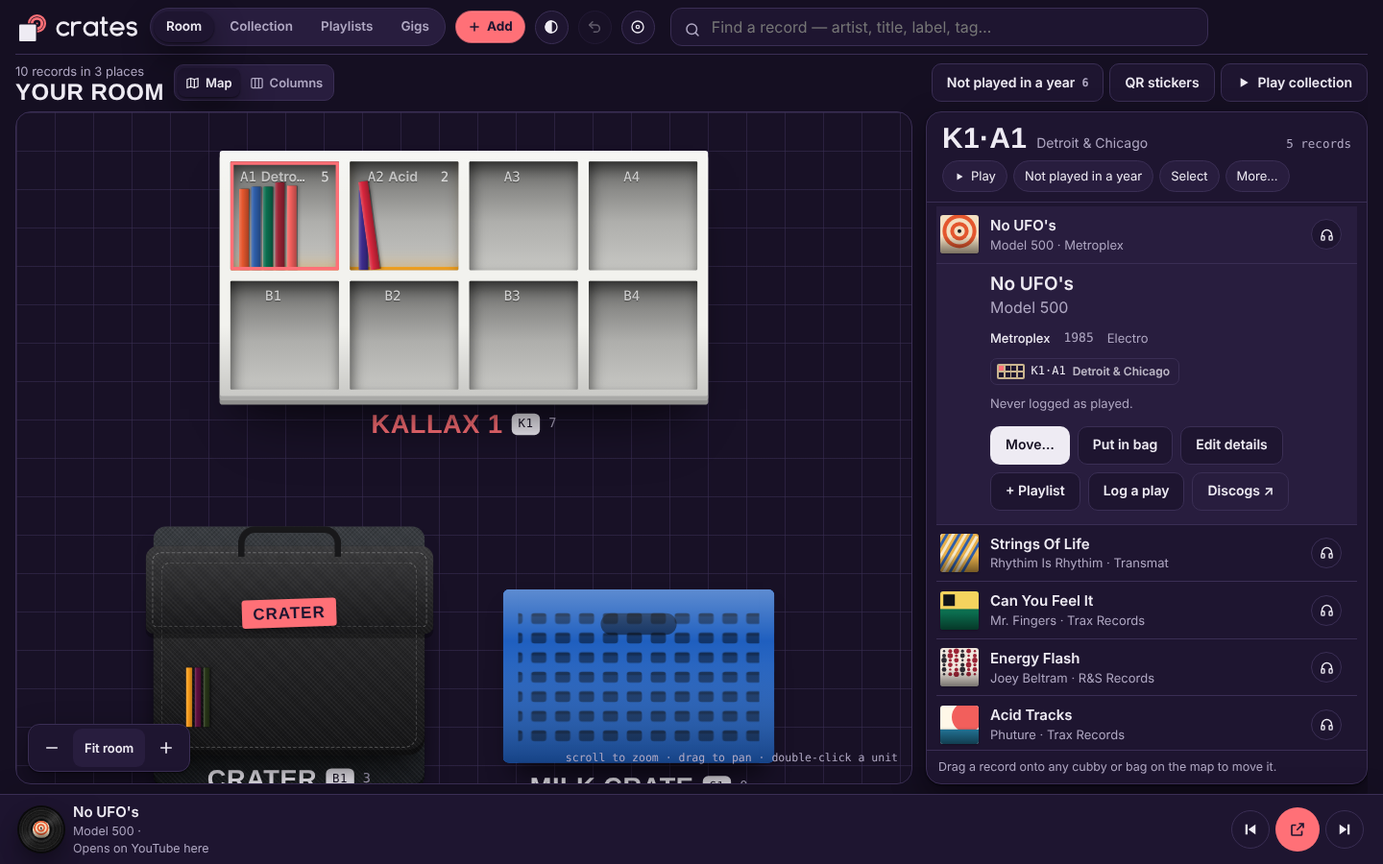
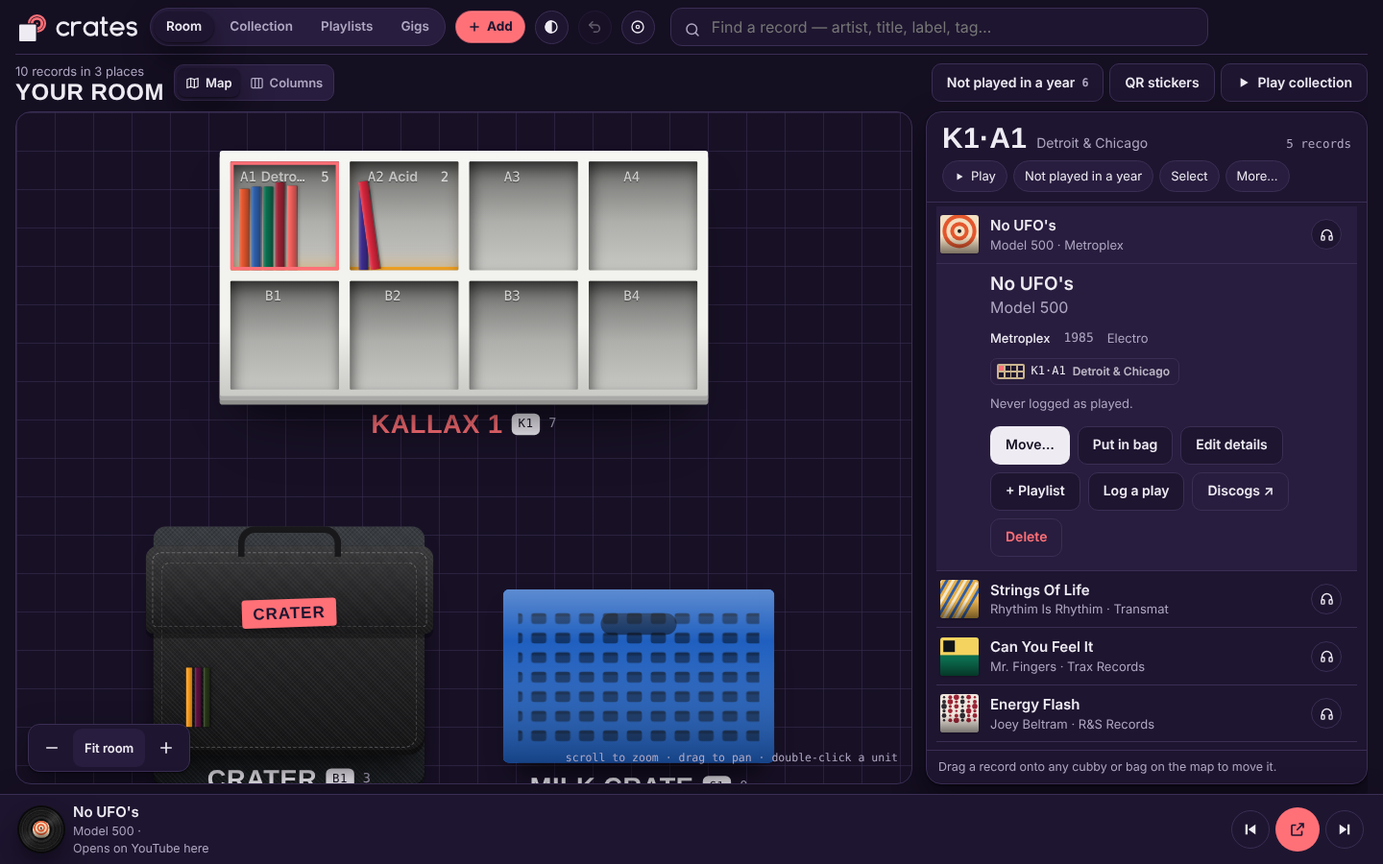
Slick borderless Collection table, Delete records with undo, two-step Discogs upload (pull and back up first), shorter README
Claude-Session: https://claude.ai/code/session_01GjUsXrTJbfwsyuQXsEMkpL

Changed region(s): [[0.6562, 0.5911, 0.8438, 0.8711], [0.9375, 0.7467, 0.9688, 0.84], [0.9375, 0.6844, 0.9688, 0.7156]]

diff --git a/crates.html b/crates.html
@@ -607,6 +607,25 @@ body:has(#player[hidden]){padding-bottom:24px}
 
 .foot{margin-top:34px;font-size:12.5px;color:var(--muted);max-width:72ch}
 
+/* ---------- slick table: no borders, soft stripes, pill hover ---------- */
+.tbl-shell .tbl-wrap{border:0;box-shadow:none;background:transparent;border-radius:12px}
+.ctable td{border-bottom:0;padding:3px 6px}
+.ctable tbody tr:nth-child(even) td{background:color-mix(in srgb,var(--surface) 55%,transparent)}
+.ctable tbody tr td{transition:background .12s}
+.ctable tbody tr:hover td{background:color-mix(in srgb,var(--surface-2) 90%,transparent)}
+.ctable tbody tr td:first-child{border-radius:10px 0 0 10px}.ctable tbody tr td:last-child{border-radius:0 10px 10px 0}
+.ctable th{background:transparent;border-bottom:0;font-size:11.5px;letter-spacing:.06em;text-transform:uppercase;color:var(--muted)}
+.ctable thead tr th{background:var(--bg)}
+.ctable th button{padding:8px 6px}
+.ctable .stick,.ctable .stick2{background:var(--bg)}
+.ctable th.stick,.ctable th.stick2{background:var(--bg)}
+.ctable td.stick,.ctable td.stick2{box-shadow:none}
+.ctable tbody tr:nth-child(even) td.stick,.ctable tbody tr:nth-child(even) td.stick2{background:color-mix(in srgb,var(--surface) 55%,var(--bg))}
+.ctable tbody tr:hover td.stick,.ctable tbody tr:hover td.stick2{background:color-mix(in srgb,var(--surface-2) 90%,var(--bg))}
+.ctable tr.sel td{background:color-mix(in srgb,var(--accent) 12%,var(--bg))!important}
+.ce{border-color:transparent}.ce:hover{border-color:transparent;background:color-mix(in srgb,var(--surface-2) 80%,transparent)}
+.tbl-shell .tbl-tools input[type=search]{border:0;background:var(--surface)}
+
 /* ---------- tighter chrome (0.8b): icons -7%, smaller Add with a border, smaller mini vinyl, shorter container bar ---------- */
 .top .icon-btn{width:35px;height:35px}
 .top .icon-btn svg{width:16px;height:16px}
@@ -1328,6 +1347,8 @@ function recInfo(cur){
         <button class="btn" data-act="add-to-pl" data-r="${cur.id}">+ Playlist</button>
         <button class="btn" data-act="log-play" data-r="${cur.id}">Log a play</button>
         <a class="btn ghost" href="${discogsUrl(cur)}" target="_blank" rel="noopener">Discogs ↗</a>
+        <button class="btn ghost danger" data-act="del-rec" data-r="${cur.id}">Delete</button>
+      </div><div id="del-rec-confirm"></div><div class="row" hidden>
       </div></div>`;
 }
 /* rows for a spot's records. opts.act = what a click does; opts.inline = expand the current record under its row */
@@ -2994,6 +3015,10 @@ const A = {
   'eu-finish':d=>{ const u = unit(d.u); u.finish = finishesFor(presetOf(u)).find(f=>f.name===d.n); render(); openEditUnit(d.u); },
   'eu-nophoto':d=>{ unit(d.u).photo=null; render(); openEditUnit(d.u); },
   'del-unit':d=>{ $('#del-confirm').innerHTML = `<div class="notice">Remove ${esc(unit(d.u).name)} from your room? <div class="row" style="margin-top:8px"><button class="btn danger" data-act="del-unit-yes" data-u="${d.u}">Remove</button><button class="btn" data-act="close">Keep it</button></div></div>`; },
+  'del-rec':d=>{ const r = rec(d.r); if(!r) return; const box = $('#del-rec-confirm'); if(!box) { deleteRecords([r.id]); return; }
+    box.innerHTML = `<div class="notice">Delete “${esc(r.title)}” from your collection? You can undo this. <div class="row" style="margin-top:8px"><button class="btn danger" data-act="del-rec-yes" data-r="${r.id}">Delete record</button><button class="btn" data-act="del-rec-no">Keep it</button></div></div>`; },
+  'del-rec-yes':d=>deleteRecords([d.r]),
+  'del-rec-no':()=>{ const b = $('#del-rec-confirm'); if(b) b.innerHTML=''; },
   'del-unit-yes':d=>{ S.units = S.units.filter(u=>u.id!==d.u); S.records.forEach(r=>{ if(r.home?.u===d.u) r.home=null; }); S.recent = S.recent.filter(l=>l.u!==d.u); closeSheet(); V.view='room'; V.unit=null; render(); toast('Removed'); },
   'ar-loc':d=>{ addRec.loc={u:d.u,c:d.c}; renderAddRecord(); },
   'file-found':()=>{ const list = addRec.found.filter(f=>f.keep); if(!list.length){ toast('Tick at least one record'); return; } fileRecords(list); },
@@ -3182,7 +3207,7 @@ function renderTable(){
       <label for="t-q" class="sr">Filter the collection</label><input id="t-q" type="search" value="${esc(T.q)}" placeholder="Filter by anything: artist, tag, K1·A2, Crater…">
       ${T_FILTERS.map(([k,n])=>`<button class="chip" data-act="t-filt" data-f="${k}" aria-pressed="${T.filt===k}">${n}</button>`).join('')}
     </div>
-    ${nsel?`<div class="selbar" style="position:static;margin:0 0 10px"><span>${nsel} selected</span><button class="btn sm" data-act="t-sel-none">Clear</button><button class="btn sm primary" data-act="t-sel-back">Put back home</button>${bags.length?`<label class="sr" for="t-sel-bag">Put selected in a bag</label><select id="t-sel-bag" class="btn sm" style="background:var(--surface);color:var(--ink)"><option value="">Put in bag…</option>${bags.map(b=>`<option value="${b.id}">${esc(b.name)}</option>`).join('')}</select>`:''}<button class="btn sm" data-act="t-sel-pl">Add to playlist…</button></div>`:''}
+    ${nsel?`<div class="selbar" style="position:static;margin:0 0 10px"><span>${nsel} selected</span><button class="btn sm" data-act="t-sel-none">Clear</button><button class="btn sm primary" data-act="t-sel-back">Put back home</button><button class="btn sm danger" data-act="t-sel-del">Delete</button>${bags.length?`<label class="sr" for="t-sel-bag">Put selected in a bag</label><select id="t-sel-bag" class="btn sm" style="background:var(--surface);color:var(--ink)"><option value="">Put in bag…</option>${bags.map(b=>`<option value="${b.id}">${esc(b.name)}</option>`).join('')}</select>`:''}<button class="btn sm" data-act="t-sel-pl">Add to playlist…</button></div>`:''}
     <div class="tbl-wrap"><table class="ctable" aria-label="Collection">
       <thead><tr><th class="cb stick"><input type="checkbox" data-tsel="all" ${rows.length&&rows.every(r=>T.sel.has(r.id))?'checked':''} aria-label="Select all shown"></th><th class="stick2"></th>
         ${head('artist','Artist')}${head('title','Title')}${head('bag','Bag')}${head('home','Home spot')}${head('label','Label')}${head('catno','Cat no.')}${head('year','Year')}${head('style','Style')}${head('bpm','BPM')}${head('key','Key')}${head('rating','Rating')}${head('tags','Tags')}<th><span style="display:block;padding:10px 8px">Now</span></th>${head('played','Last played')}</tr></thead>
@@ -3240,6 +3265,7 @@ Object.assign(A, {
   't-back':d=>{ const n = putBack([rec(d.r)]); render(); if(n) toast(`Back in ${addrShort(rec(d.r).home)}`, true); },
   't-back-all':()=>{ const n = putBack(S.records.filter(inBagNow)); render(); toast(`${n} records put back home`, true); },
   't-sel-none':()=>{ T.sel.clear(); render(); },
+  't-sel-del':()=>{ const ids = [...T.sel]; if(!ids.length) return; deleteRecords(ids); },
   't-sel-back':()=>{ const n = putBack([...T.sel].map(rec).filter(Boolean)); T.sel.clear(); render(); toast(n?`${n} put back home`:'Those are already home', !!n); },
   't-sel-pl':()=>{ const ids = [...T.sel];
     openSheet(`<div class="sheet-head"><div><div class="kicker">${ids.length} records</div><h2>Add to playlist</h2></div><button class="icon-btn" data-act="close" aria-label="Close">✕</button></div>
@@ -3332,7 +3358,7 @@ function openDiscogsImport(){
     <p class="muted" style="margin:0 0 10px;font-size:13.5px">A backup of your current collection is made first. Imported records land as <b>Unplaced</b>; file them from the Collection tab or by dragging. Records you already own (same artist and title) are skipped.</p>
     <div class="row" style="margin-bottom:14px"><label class="btn primary file">Load Discogs CSV export<input type="file" id="dg-csv" accept=".csv,text/csv"></label><button class="btn" data-act="dg-demo">Import a demo collection (6 records)</button></div>
     <div class="bcbox"><b style="font-size:14px">Upload to your Discogs collection</b><p class="muted" style="margin:6px 0 10px;font-size:13px">Adds records that aren’t in your Discogs collection yet, and writes each one’s spot to the “Location” field. Queued here; the full app sends them from the server within the 60 requests/minute limit.</p>
-      <div class="row"><button class="btn" data-act="dg-upload">Queue upload (${S.records.length} records)</button><span class="muted" style="font-size:13px">${S.syncQueue.filter(q=>q.kind==='add').length} adds waiting</span></div></div>
+      <div class="row"><button class="btn" data-act="dg-upload-open">Upload to Discogs…</button><span class="muted" style="font-size:13px">${S.syncQueue.filter(q=>q.kind==='add').length} adds waiting</span></div></div>
     <p class="muted" style="font-size:12.5px;margin-top:12px">Importing straight from the Discogs API needs a server-side token (research/discogs-api.md), so the prototype reads the CSV export instead.</p>`);
   $('#dg-csv').onchange = e => { const f = e.target.files[0]; if(!f) return; const rd = new FileReader(); rd.onload = () => importDiscogsRows(parseCSV(rd.result), f.name); rd.readAsText(f); };
 }
@@ -3351,7 +3377,38 @@ function importDemoDiscogs(){
   const h = ['Artist','Title','Label','Released','Genre'];
   importDiscogsRows([h, ...DEMO_DISCOGS], 'the demo Discogs collection');
 }
+/* delete records; Undo puts them back where they were (in the same order), and in every playlist and gig they were in */
+function deleteRecords(ids){
+  const set = new Set(ids); const gone = [];
+  S.records.forEach((r,i)=>{ if(set.has(r.id)) gone.push({r, i}); });
+  if(!gone.length) return;
+  const pl = S.playlists.map(p=>[p, [...p.items]]), gg = S.gigs.map(g=>[g, [...g.items]]), q = P.queue.slice(), qi = P.i;
+  S.records = S.records.filter(r=>!set.has(r.id));
+  S.playlists.forEach(p=>{ p.items = p.items.filter(id=>!set.has(id)); }); S.gigs.forEach(g=>{ g.items = g.items.filter(it=>!set.has(it.r)); });
+  S.syncQueue = S.syncQueue.filter(x=>!set.has(x.r)); T.sel.clear(); P.queue = P.queue.filter(id=>!set.has(id)); if(P.i>=P.queue.length) P.i = P.queue.length-1;
+  lastUndo = () => { gone.sort((a,b)=>a.i-b.i).forEach(({r,i})=>S.records.splice(Math.min(i, S.records.length), 0, r)); pl.forEach(([p,items])=>{ p.items = items; }); gg.forEach(([g,items])=>{ g.items = items; }); P.queue = q; P.i = qi; renderPlayer(); };
+  closeSheet(); V.dig = Math.max(0, V.dig-1); render(); renderPlayer();
+  toast(gone.length===1 ? `Deleted “${gone[0].r.title}”` : `Deleted ${gone.length} records`, true);
+}
+/* Upload to Discogs: first pull the current Discogs collection and keep it as a backup, then queue the adds */
+function openDiscogsUpload(){
+  const snap = backups().find(b=>b.kind==='discogs');
+  openSheet(`<div class="sheet-head"><div><div class="kicker">Two steps, and nothing leaves until step 2</div><h2>Upload to Discogs</h2></div><button class="icon-btn" data-act="close" aria-label="Close">✕</button></div>
+    <div class="bcbox"><b style="font-size:14px">1 · Download your Discogs collection and back it up</b>
+      <p class="muted" style="margin:6px 0 10px;font-size:13px">So the upload can never lose anything, Crates keeps a copy of what Discogs has <em>before</em> it writes. Load your current CSV export (Collection → Export on discogs.com); it is stored as a backup labelled “Discogs collection before upload”. The full app does this pull itself through the API.</p>
+      <div class="row"><label class="btn primary file">Load Discogs CSV export<input type="file" id="dg-pre"></label><button class="btn" data-act="dg-pre-demo">Use the demo snapshot</button>${snap?`<span class="pill ok">Snapshot kept ${fmtWhen(snap.at)}</span>`:''}</div></div>
+    <div class="bcbox" style="margin-top:12px;${snap?'':'opacity:.55'}"><b style="font-size:14px">2 · Queue the upload</b>
+      <p class="muted" style="margin:6px 0 10px;font-size:13px">Adds the records Discogs doesn’t have yet and writes every spot to the “Location” field. The full app sends them from the server within the 60-requests-a-minute limit; here they wait in the queue (Settings → Sync now).</p>
+      <div class="row"><button class="btn ${snap?'primary':''}" data-act="dg-upload" ${snap?'':'disabled'}>Queue upload (${S.records.length} records)</button><span class="muted" style="font-size:13px">${S.syncQueue.filter(q=>q.kind==='add').length} adds waiting</span></div></div>`);
+  const inp = $('#dg-pre'); if(inp){ inp.accept='.csv,text/csv'; inp.onchange = e => { const f = e.target.files[0]; if(!f) return; const rd = new FileReader(); rd.onload = () => { const rows = parseCSV(rd.result); if(rows.length<2){ toast('No records found in that file'); return; } snapshotDiscogs(rows, f.name); }; rd.readAsText(f); }; }
+}
+function snapshotDiscogs(rows, label){
+  const b = backupNow('Discogs collection before upload · '+label, 'discogs');
+  if(b){ b.discogsRows = rows.length-1; const list = backups(); list[0].discogsRows = rows.length-1; localStorage.setItem(BK_KEY, JSON.stringify(list)); }
+  toast(`Kept a copy of ${rows.length-1} Discogs rows as a backup`); openDiscogsUpload();
+}
 function queueDiscogsUpload(){
+  if(!backups().some(b=>b.kind==='discogs')){ toast('Download and back up your Discogs collection first'); openDiscogsUpload(); return; }
   let n=0; S.records.forEach(r=>{ if(!S.syncQueue.some(q=>q.kind==='add'&&q.r===r.id)){ S.syncQueue.push({kind:'add', r:r.id, value:discogsLocValue(r), status:'pending', at:Date.now()}); n++; } });
   save(); closeSheet(); toast(`${n} records queued for Discogs · Settings → Sync now (demo)`);
 }
@@ -3365,6 +3422,8 @@ Object.assign(A, {
   'dg-import':()=>openDiscogsImport(),
   'dg-demo':()=>importDemoDiscogs(),
   'dg-upload':()=>queueDiscogsUpload(),
+  'dg-upload-open':()=>openDiscogsUpload(),
+  'dg-pre-demo':()=>snapshotDiscogs([['Artist','Title'], ...DEMO_DISCOGS], 'demo snapshot'),
 });
 
 /* ---------- Claude photo recognition (optional) ---------- */

diff --git a/tests/test_crates.py b/tests/test_crates.py
@@ -1339,6 +1339,22 @@ def r10_density_and_sheet(browser, url):
         a.close()
 
 
+def r11_delete_and_upload(a):
+    a.click(".dig-info [data-act=del-rec]"); a.click("[data-act=del-rec-yes]"); _settle(a, 150)
+    check(a.ev("S.records.length") == 9 and a.toast().startswith("Deleted"), "delete did not remove the record")
+    a.undo(); check(a.ev("S.records.length") == 10 and a.ev("S.records[0].id") == "r9", "undo did not restore the record in place")
+    a.ev("V.view='table';render()"); a.page.locator("input[data-tsel=r1]").click(); a.page.locator("input[data-tsel=r2]").click(); _settle(a)
+    a.click("[data-act=t-sel-del]"); _settle(a, 150); check(a.ev("S.records.length") == 8, "bulk delete")
+    a.undo(); check(a.ev("S.records.length") == 10, "bulk undo")
+    a.ev("openDiscogsUpload()"); _settle(a, 150)
+    check(a.page.locator(".sheet [data-act=dg-upload]").is_disabled(), "upload must wait for the Discogs snapshot")
+    a.click(".sheet [data-act=dg-pre-demo]"); _settle(a, 200)
+    check(a.ev("backups()[0].kind") == "discogs" and not a.page.locator(".sheet [data-act=dg-upload]").is_disabled(), "snapshot should enable the upload")
+    a.click(".sheet [data-act=dg-upload]"); _settle(a, 150)
+    check(a.ev("S.syncQueue.filter(q=>q.kind==='add').length") == 10, "adds not queued")
+    check(not a.js_errors(), a.js_errors())
+
+
 TESTS += [
     ("R01 Room fits the screen", r01_room_fits), ("R02 Zoom into a unit", r02_zoom),
     ("R03 Drag and drop", r03_drag), ("R04 Multi-step undo", r04_multi_undo),
@@ -1347,6 +1363,7 @@ TESTS += [
     ("R08 Looks + cue bar", r08_looks_and_cuebar),
     ("R09 Backups + Discogs import", r09_backups_import),
     ("R10 Density, sheet snaps, phone columns", r10_density_and_sheet),
+    ("R11 Delete + two-step Discogs upload", r11_delete_and_upload),
 ]
 BROWSER_LEVEL |= {r01_room_fits, r03_drag, r06_player_slides_in, r10_density_and_sheet}
 

diff --git a/README.md b/README.md
@@ -1,123 +1,65 @@
 <p align="center">
   <picture>
     <source media="(prefers-color-scheme: dark)" srcset="logos/crates-logo-dark.svg">
-    <img src="logos/crates-logo-light.svg" alt="crates" width="420">
+    <img src="logos/crates-logo-light.svg" alt="crates" width="380">
   </picture>
 </p>
 
-<p align="center"><b>Vinyl DJ Librarian.</b> Version 0.8b. Know which shelf, crate or bag every record is in, play it, and pack it for the gig.</p>
+<p align="center"><b>Where's that record?</b><br>Crates knows. Kallax 1, shelf A2. Or the bag you took to the loft last Friday.</p>
 
-<p align="center"><a href="https://crates-livid.vercel.app/"><b>Open the live app → crates-livid.vercel.app</b></a></p>
+<p align="center"><a href="https://crates-livid.vercel.app/"><b>▶ Play with it: crates-livid.vercel.app</b></a> · v0.8b</p>
 
 ---
 
-Crates maps your record collection to the furniture it actually lives in. Photograph your racks and record bags, then the records in each cubby, and every record gets a spot. Search **Strings Of Life** and the answer is **Kallax 1, shelf A1 (Detroit & Chicago)** or **bag "Crater"**. You can flip through a cubby, move a record with two taps or a drag, pack a bag for a gig and check it all back in when you get home. Records play through the YouTube player and fallback chain from [discogs-stream](https://github.com/CarlosFranzetti/discogs-stream).
+Crates is a vinyl librarian for DJs. Draw your shelves, crates and bags, drop your records in, and it remembers every spot. Search a record and it answers with a place, not a folder. Pack a bag for a gig, log what you played, put it all back when you get home. Press play and it spins through YouTube, with the fallback chain from [discogs-stream](https://github.com/CarlosFranzetti/discogs-stream) so a dead link never kills the set.
 
-> **Status:** working prototype (`crates.html`, a single file) deployed on Vercel, plus a live Neon Postgres schema. The React app comes next; see [ROADMAP](docs/ROADMAP.md).
+![The room as a map, with K1·A1 open in the side panel](docs/screenshots/readme-map-desktop.png)
 
-## Screenshots
+## The good stuff
 
-The app opens in the dark **Booth** look; the ◐ button switches to the light **Shop floor** look or follows your device. Room has two layouts, **Map** and **Columns**, switched next to the title.
+- **Two ways to look at your room.** **Map** draws your furniture on a canvas you pan and pinch. **Columns** goes spots → records → record, Finder-style. Switch any time; it remembers.
+- **Tap a cubby, get the records.** Side panel on desktop, a slide-up overlay on your phone. Nothing on the page ever scrolls.
+- **Addresses that make sense.** `K1·B2` is Kallax 1, row B, cubby 2. Name a cubby "Acid" and it shows up everywhere.
+- **Move things like a human.** Drag a sleeve onto any cubby or bag. Two taps for one record. Multi-select, move a whole cubby, swap two. Undo as far back as you like.
+- **64 racks, 41 bags.** Every Kallax, plus Glorious, Zomo, UDG, Magma, milk crates in all the colors. Pick a finish, or your own.
+- **Gigs.** Plan, pack, play, put back. Anything missing gets flagged. "Not played in a year" is one tap away.
+- **The player.** Spinning vinyl, big-type queue, drag to seek, pinch the record to read the label. The next link is cued before you need it, and links that work are saved.
+- **Collection spreadsheet.** Edit in place, every container along the top, drag a row onto one to move it. Borderless, because it should look good.
+- **Backups you don't have to think about.** Four rolling snapshots, made before every import, restore and reset. Save the whole thing to a file. Import your Discogs CSV. Upload to Discogs only after it has pulled and backed up what's there.
+- **QR stickers** for every unit and cubby. Scan one, land on that cubby.
+- **Dark by default.** Booth look, or Shop floor if you're a morning person.
 
-| Map: the room on a pannable, zoomable canvas, a spot's records beside it | Columns: spots → records → record |
-|---|---|
-| ![Map view with Kallax 1, the Crater bag and a milk crate, K1·A1 open in the side panel](docs/screenshots/readme-map-desktop.png) | ![Columns view with the spots list, A1's records and the chosen record](docs/screenshots/readme-columns-desktop.png) |
-| **Collection: full height, with every container along the top** | **Shop floor look (light)** |
-| ![Collection table with the container bar and Bag and Home spot columns](docs/screenshots/readme-collection-desktop.png) | ![Map view in the light Shop floor look](docs/screenshots/readme-shop-map-desktop.png) |
-| **Player: pinch the record to grow the label, drag to seek** | **Gig packing list** |
-| ![Now playing with the spinning record and queue](docs/screenshots/readme-player-desktop.png) | ![Gig load-out checklist](docs/screenshots/readme-gigs-desktop.png) |
-| **Add a record: barcode and duplicate warning** | **QR stickers** |
-| ![Add record with barcode candidates and a duplicate warning](docs/screenshots/readme-add-record-dupe-desktop.png) | ![QR sticker sheet per unit and cubby](docs/screenshots/readme-stickers-desktop.png) |
+| Columns | Collection | Phone |
+|---|---|---|
+| ![Columns view](docs/screenshots/readme-columns-desktop.png) | ![Collection table](docs/screenshots/readme-collection-desktop.png) | ![Phone overlay](docs/screenshots/readme-overlay-mobile.png) |
 
-<details><summary>Phone screenshots</summary>
+<details><summary>More screenshots</summary>
 
-| Map | Tap a cubby: its records as an overlay | Columns | Collection | Player | Add record |
-|---|---|---|---|---|---|
-| ![](docs/screenshots/readme-map-mobile.png) | ![](docs/screenshots/readme-overlay-mobile.png) | ![](docs/screenshots/readme-columns-mobile.png) | ![](docs/screenshots/readme-collection-mobile.png) | ![](docs/screenshots/readme-player-mobile.png) | ![](docs/screenshots/readme-add-record-dupe-mobile.png) |
+| Shop floor look | Player | Gig packing | Add + duplicate check | QR stickers |
+|---|---|---|---|---|
+| ![](docs/screenshots/readme-shop-map-desktop.png) | ![](docs/screenshots/readme-player-desktop.png) | ![](docs/screenshots/readme-gigs-desktop.png) | ![](docs/screenshots/readme-add-record-dupe-desktop.png) | ![](docs/screenshots/readme-stickers-desktop.png) |
+
+| Map | Columns | Collection | Player | Add record |
+|---|---|---|---|---|
+| ![](docs/screenshots/readme-map-mobile.png) | ![](docs/screenshots/readme-columns-mobile.png) | ![](docs/screenshots/readme-collection-mobile.png) | ![](docs/screenshots/readme-player-mobile.png) | ![](docs/screenshots/readme-add-record-dupe-mobile.png) |
 
 </details>
 
-## What it does
-
-**Where things are**
-- **Spots, not folders.** Each unit has an ID (K1, B1, C1). Cubbies are rows A, B, C… by columns 1, 2, 3…, so `K1·B2` is Kallax 1, second row, second cubby. Any cubby can have a subtitle such as "A2 (Acid)".
-- **Map.** Your furniture on a canvas: drag to pan, pinch or scroll to zoom, double-tap a unit. Tap a cubby, bag or crate for its records in a side panel, or an overlay on phones. Nothing on the page scrolls.
-- **Columns.** Spots, records and the record, side by side on desktop and one at a time on phones with push/pop and ‹ › stepping between spots.
-- **Container bar.** Above the Collection table every spot is a pad: tap to filter, drop a row to move. Pads size to their text.
-- **Search to shelf.** Search by artist, title, label, cat no., BPM, key, tags, notes or cubby name, then jump straight to the spot.
-- **64 furniture presets and 41 record bags.** Every Kallax/Expedit size, other IKEA, Glorious, Zomo, Pro-Ject, Wax Stacks, crates and boxes, plus UDG, Magma, Zomo, Odyssey, Reloop, Gator and more. Each comes in its real finishes or colors, or a custom color. New bags start as "Bag 1", "Bag 2".
-
-**Moving records**
-- **Drag and drop** between cubbies and bags (long-press on touch screens).
-- **Two-tap moves** for one record, with its home slot outlined.
-- **Bulk moves:** a multi-select, a whole cubby, or a swap between two cubbies.
-- **Multi-step undo** for every move (Ctrl/⌘+Z).
-- **Bags remember where records came from.** Scan the whole bag to reconcile it, and Put back sends everything home.
-
-**Playing and gigs**
-- **Player.** Spinning vinyl, a large-font queue, YouTube links and discogs-stream's timeout/fallback chain. It slides up when something plays and slides out from its tab. Drag the bar to seek, pinch the record to grow the label. The next record's link is cued in a standby player, and links that play are saved back to the record.
-- **30-second previews.** Audio only, no video, like discogs-stream.
-- **Gigs.** Plan, load out, log what you played at the gig, and check in back home (anything missing gets flagged).
-- **Set history.** Last played, play counts, and a "Not played in a year" dig list.
-
-**Your data**
-- **Backups, save and load.** Four rolling backups, made before every import, restore and reset, with a picker. Save the collection to a file and load it back.
-- **Discogs import and upload.** Load your Discogs CSV export (duplicates skipped, new records land as Unplaced) and queue uploads to your Discogs collection.
-- **Density.** Regular or compact rows, bars and buttons.
-- **Collection spreadsheet.** Edit details in place, use the Bag and Home spot columns for the post-gig put-back, and export to CSV. Laid out for landscape.
-- **Adding records.** By photo, typing or barcode, with a duplicate warning ("You already own this. It's in K1·A1").
-- **Discogs.** Your edits never overwrite the original, and locations can be saved to a Discogs "Location" field.
-- **QR stickers.** One per unit and per cubby, in 1″, 1.5″ or 2″, ready to print. Scanning one opens that exact cubby on the live site.
-
-Barcode lookups and Discogs sync are simulated in the prototype and say so in the app. The real calls go server-side in the React app.
-
-## Docs
-
-| | |
-|---|---|
-| [PRD.md](PRD.md) | Product requirements, flows and acceptance criteria |
-| [HOWTO.md](HOWTO.md) | Using Crates step by step, and developing it |
-| [LIST.md](LIST.md) | The big list: every feature, preset, field and table, built or not |
-| [FUTURE.md](FUTURE.md) | Ideas beyond what's built |
-| [BUGS.md](BUGS.md) | Known bugs and what's been fixed |
-| [QA.md](QA.md) | Test catalog, error-handling audit, code review, swarm work packages |
-| [CLAUDE.md](CLAUDE.md) | Rules for Claude and agent swarms working in this repo |
-| [docs/](docs/) | Architecture, data model, player port spec, interaction spec, review-swarm report, roadmap, infrastructure |
-| [research/](research/) | Furniture, bag, feature, competitor and Discogs API research |
-| [logos/](logos/) | The logo (concept 3, "Half-pulled") and the other directions |
-
-## Quick start
+## Run it
 
 ```bash
-node scripts/build.mjs        # wraps crates.html into dist/index.html
-npx serve dist                # open http://localhost:3000
-
-pip install --break-system-packages playwright
-CRATES_NO_PATCH=1 python3 tests/test_crates.py   # 65 Playwright tests
+node scripts/build.mjs && npx serve dist          # http://localhost:3000
+CRATES_NO_PATCH=1 python3 tests/test_crates.py    # 66 Playwright tests
 ```
 
-The prototype keeps its data in your browser (localStorage), so each browser has its own collection. The database schema lives in `app/db/` (Neon Postgres; run 001–005 in order; 005 mirrors discogs-stream's tables and adds backups).
+One HTML file, no framework, no build beyond wrapping. Your data lives in your browser until the real backend lands (Neon schema in `app/db/`, 001–005). Deploys to Vercel from `main` with `vercel.json` (preset Other, `node scripts/build.mjs`, output `dist`).
 
-## Deploy
+## Read more
 
-Live at **https://crates-livid.vercel.app/**. Vercel builds it from `vercel.json`:
-
-- **Framework preset:** Other.
-- **Build command:** `node scripts/build.mjs`.
-- **Output directory:** `dist`.
-- **Install command:** none.
-
-The build adds the page title, favicon, Vercel Web Analytics and Speed Insights. `vercel.json` also sets the security headers (CSP, and camera allowed for barcode photos).
-
-## Stack
-
-- **Prototype:** HTML, CSS and vanilla JS in one file, with QR generation inlined and the barcode reader (ZXing) loaded on demand. Static site on Vercel.
-- **Planned app:** Vite + React + TypeScript + Tailwind, Vercel functions, Neon Postgres and the Discogs API, with the YouTube player ported from discogs-stream.
+[HOWTO](HOWTO.md) · [PRD](PRD.md) · [the big LIST](LIST.md) · [FUTURE](FUTURE.md) · [BUGS](BUGS.md) · [QA](QA.md) · [docs/](docs/) · [research/](research/) · [CLAUDE.md](CLAUDE.md) for the agents
 
 ## Credits
 
-Version 0.8b. **Thought up by Carlos Franzetti.** **Put into motion by Claude and the Crates crew** — the research, build and review agents that work in this repo.
+Thought up by **Carlos Franzetti**. Put into motion by **Claude and the Crates crew**.
 
----
-
-<sub>Data from Discogs is used under the Discogs API terms. Crates is not affiliated with Discogs or IKEA.</sub>
+<sub>Discogs data is used under the Discogs API terms. Not affiliated with Discogs or IKEA. The crew is not responsible for records you suddenly want to buy.</sub>

diff --git a/HOWTO.md b/HOWTO.md
@@ -216,7 +216,8 @@ Printing tips:
 - **Backups** (Settings → Backups) keeps the four most recent snapshots in this browser. One is made automatically before every import, restore and reset; **Back up now** adds one by hand. The oldest is dropped when all four slots are used. **Restore** swaps a backup in (after backing up the current collection first), ✕ deletes one.
 - **Save to file** downloads `crates-YYYY-MM-DD.json`, the whole collection. **Load from file** reads one back (with a backup first). Keep a saved file somewhere safe; backups live only in this browser.
 - **Import from Discogs:** on discogs.com go to your Collection → Export and download the CSV, then load it here. Records you already own (same artist and title) are skipped, and new ones land as **Unplaced**, which you file from the Collection tab (Home spot column) or by dragging. A demo import of 6 records shows the flow. Importing straight from the Discogs API needs the server (research/discogs-api.md), so the prototype reads the export instead.
-- **Upload to your Discogs collection** queues every record for the Discogs sync; the full app sends the adds and the Location field from the server within the 60-requests-a-minute limit. In the prototype, Settings → **Sync now (demo)** marks them done.
+- **Delete a record** from its details (Delete, then confirm) or tick several in Collection and press Delete. Undo puts them back, in their playlists and gigs too.
+- **Upload to your Discogs collection** is two steps: first load your current Discogs CSV export, which is kept as a backup labelled “Discogs collection before upload” (the full app pulls it through the API), and only then can you queue the upload. It queues every record for the Discogs sync; the full app sends the adds and the Location field from the server within the 60-requests-a-minute limit. In the prototype, Settings → **Sync now (demo)** marks them done.
 
 ## When something does not look right
 

diff --git a/LIST.md b/LIST.md
@@ -472,7 +472,8 @@ Bag capacities are in LPs unless stated; "Capacity not listed" means the maker g
 - [x] Save the collection to a JSON file; load one back (validated, with a backup first)
 - [x] Import a Discogs CSV export (Collection → Export): CSV parser with quotes, duplicate skip by normalised artist + title, imported records land as Unplaced, import log in `S.imports`
 - [~] Demo Discogs import (6 sample records) stands in for the API import, which needs the server
-- [~] Upload to the Discogs collection: queued as `kind:'add'` entries in the sync queue; sent by the full app's server job
+- [x] Delete records (single with confirm, or multi-select in Collection); Undo restores them in place, in playlists and gigs
+- [~] Upload to the Discogs collection: step 1 pulls the current Discogs collection (CSV export in the prototype, API in the full app) into a backup of kind `discogs`; step 2 queues `kind:'add'` entries in the sync queue, sent by the server job
 - [x] Collection table: full height, container bar on top (All + every spot) filters and takes dropped rows via the ⋮⋮ handle; Unplaced filter; pads size to their text and drop the subtitle when tight
 
 ## 23. Prototype data and persistence
